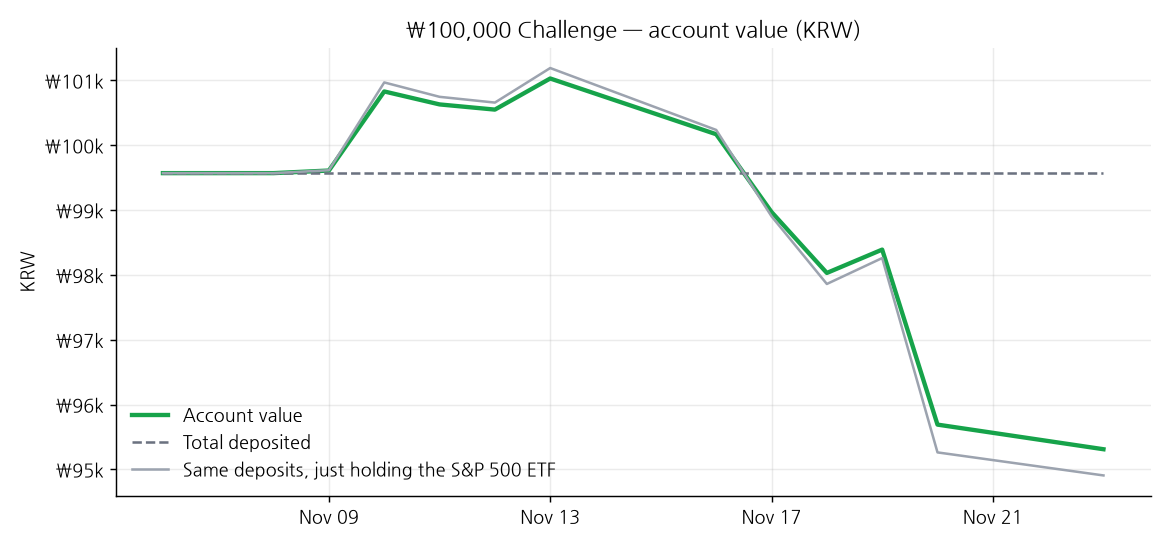
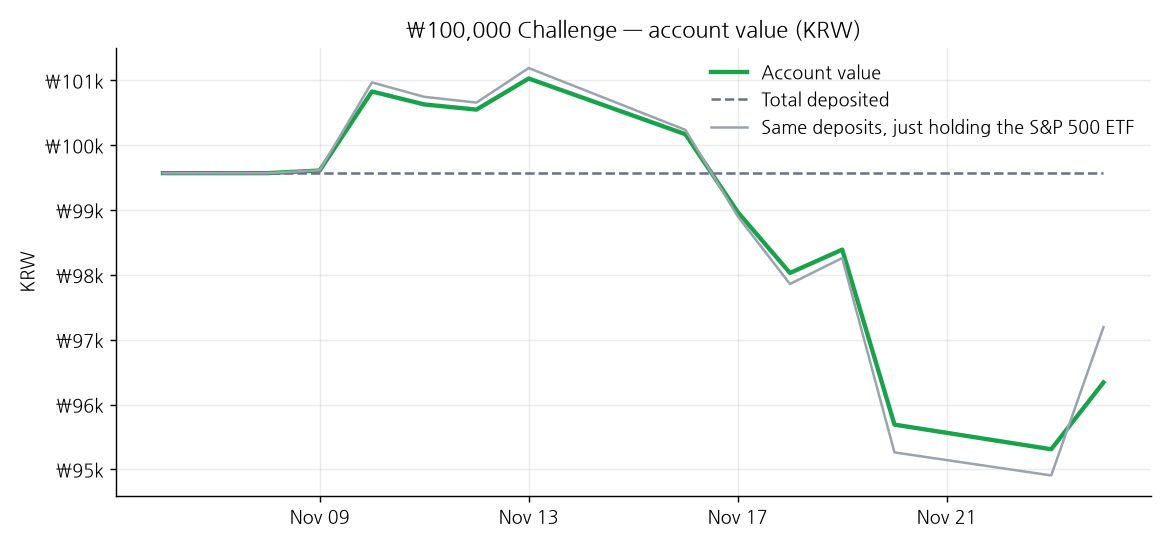
KRW 100k challenge 2026-11-24: 96,340 KRW

diff --git a/README.md b/README.md
@@ -49,20 +49,20 @@ Official 2026 Unity Game Jam entry (theme: *Lucky Number*) · solo · Unity 6 ·
 
 <!-- CHALLENGE:START -->
 
-## 💵 ₩100,000 (≈$75) Auto-Trading Challenge
+## 💵 ₩100,000 (≈$74) Auto-Trading Challenge
 
-> Started with **₩100,000** on 2026-11-06 and adding **₩100,000 (≈$75) every month**. A Raspberry Pi bot trades a real Korean brokerage account on its own — every number below is real and updated daily. (USD values are approximate, converted at today's rate.)
+> Started with **₩100,000** on 2026-11-06 and adding **₩100,000 (≈$74) every month**. A Raspberry Pi bot trades a real Korean brokerage account on its own — every number below is real and updated daily. (USD values are approximate, converted at today's rate.)
 
 | | |
 |---|---|
-| 💰 Account value | **₩95,310** (≈$71) |
+| 💰 Account value | **₩96,340** (≈$72) |
 | 🏦 Total deposited | ₩99,570 (≈$74) |
-| 📈 Profit / loss | **−₩4,260** (≈$3) (-4.28% of deposits) |
-| ⚙ Bot strategy return (deposits excluded) | -4.22% |
-| 📊 Just holding the S&P 500 ETF, same period | -4.68% |
-| 🆚 Same deposits, just holding the S&P 500 ETF | ₩94,906 (≈$71) |
+| 📈 Profit / loss | **−₩3,230** (≈$2) (-3.24% of deposits) |
+| ⚙ Bot strategy return (deposits excluded) | -3.18% |
+| 📊 Just holding the S&P 500 ETF, same period | -2.39% |
+| 🆚 Same deposits, just holding the S&P 500 ETF | ₩97,193 (≈$72) |
 | 🧭 Market regime | 🔴 BEAR — S&P 500 below its 200-day average → 50% S&P 500 ETF / 50% short-term rates |
-| 💱 USD/KRW used above | **1,340.87** (market close 2026-11-23, updated 2026-11-24 07:30 KST) |
+| 💱 USD/KRW used above | **1,344.18** (market close 2026-11-24, updated 2026-11-24 16:00 KST) |
 
 ![USD/KRW live](https://img.shields.io/badge/dynamic/json?url=https%3A%2F%2Fopen.er-api.com%2Fv6%2Flatest%2FUSD&query=%24.rates.KRW&label=USD%2FKRW%20now&prefix=%E2%82%A9&color=0a7&cacheSeconds=3600)
 
@@ -74,8 +74,8 @@ Official 2026 Unity Game Jam entry (theme: *Lucky Number*) · solo · Unity 6 ·
 
 | ETF | Shares | Price | Value | Weight |
 |---|---|---|---|---|
-| 379800 · KODEX 미국S&P500 (S&P 500 ETF) | 2 | ₩21,365 | ₩42,730 | 44.8% |
-| Cash | | | ₩52,580 | 55.2% |
+| 379800 · KODEX 미국S&P500 (S&P 500 ETF) | 2 | ₩21,880 | ₩43,760 | 45.4% |
+| Cash | | | ₩52,580 | 54.6% |
 
 ### Recent trades
 
@@ -98,7 +98,7 @@ Official 2026 Unity Game Jam entry (theme: *Lucky Number*) · solo · Unity 6 ·
 
 If you enjoy following this, you can [sponsor me](https://github.com/sponsors/chomuscleguy). Donations are **support for the project only** — they are not invested in this account and carry no returns, shares or refunds.
 
-<sub>Not investment advice. Personal experiment. Last updated 2026-11-24 07:30 KST.</sub>
+<sub>Not investment advice. Personal experiment. Last updated 2026-11-24 16:00 KST.</sub>
 
 <!-- CHALLENGE:END -->
 
@@ -111,15 +111,15 @@ If you enjoy following this, you can [sponsor me](https://github.com/sponsors/ch
 | Strategy | Since | Bot return | Benchmark | vs benchmark | Regime |
 |---|---|---|---|---|---|
 | **🇺🇸 US stocks** — 10 high-conviction stocks from top investors' 13F filings | 2026-11-05 | **-0.43%** | S&P 500 (SPY) -1.46% | +1.03% | 🔴 BEAR |
-| **🇰🇷 Korean stocks** — Top 10 holdings of Korea's National Pension Service (5%+ stakes) | 2026-11-06 | **-2.91%** | KOSPI 200 (KODEX 200) -6.63% | +3.72% | 🔴 BEAR |
+| **🇰🇷 Korean stocks** — Top 10 holdings of Korea's National Pension Service (5%+ stakes) | 2026-11-06 | **-0.56%** | KOSPI 200 (KODEX 200) -0.44% | -0.13% | 🔴 BEAR |
 
 ![Paper-trading returns](paper/returns.png)
 
 - 🇺🇸 US stocks top holdings: TSLA 11%, AAPL 10%, AVGO 10%, AMD 10%, AMZN 10%, GOOGL 10% · cash 2%
-- 🇰🇷 Korean stocks top holdings: KODEX 단기채권 51%, 하나금융지주 5%, 신한지주 5%, 셀트리온 5%, 현대모비스 5% · cash 15%
+- 🇰🇷 Korean stocks top holdings: KODEX 단기채권 50%, 하나금융지주 5%, 현대모비스 5%, 신한지주 5%, 셀트리온 5% · cash 15%
 
 Full dashboard: [portfolio-dashboard](https://github.com/chomuscleguy/portfolio-dashboard)
 
-<sub>Simulated account, returns only (no amounts). Not investment advice. Updated 2026-11-24 07:30 KST.</sub>
+<sub>Simulated account, returns only (no amounts). Not investment advice. Updated 2026-11-24 16:00 KST.</sub>
 
 <!-- PAPER:END -->
